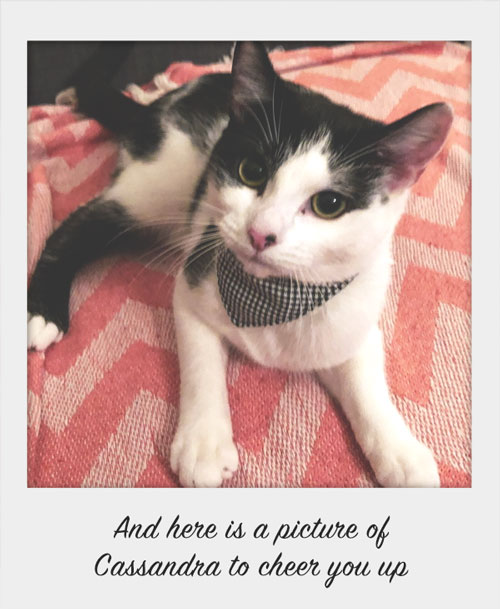
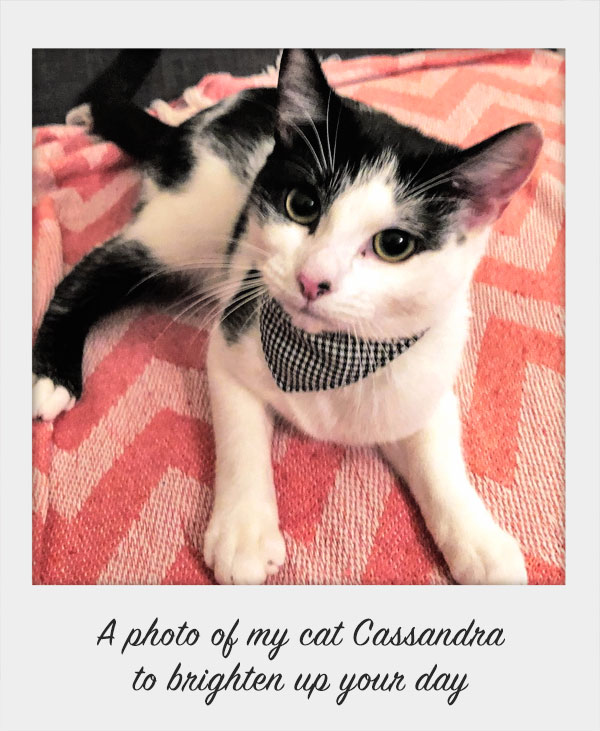
pic update

diff --git a/index.html b/index.html
@@ -14,13 +14,13 @@ subtitle: Hi There! Welcome to my professional page<br><br>
       display: block;
       margin-left: auto;
       margin-right: auto;
-      transform: rotate(5deg);
+      transform: rotate(3deg);
 
     }
 </style>
 <h1>
 <div class="polaroid">
-    <img src="https://github.com/borgesdesa/borgesdesa.github.io/blob/master/assets/img/polaroid2.jpg?raw=true" alt="cassandra, the prettiest kitty" width="300px">
+    <img src="https://github.com/borgesdesa/borgesdesa.github.io/blob/master/assets/img/polaroid2.jpg?raw=true" alt="cassandra, the prettiest kitty" width="280px">
     </div>
 </h1>
 
